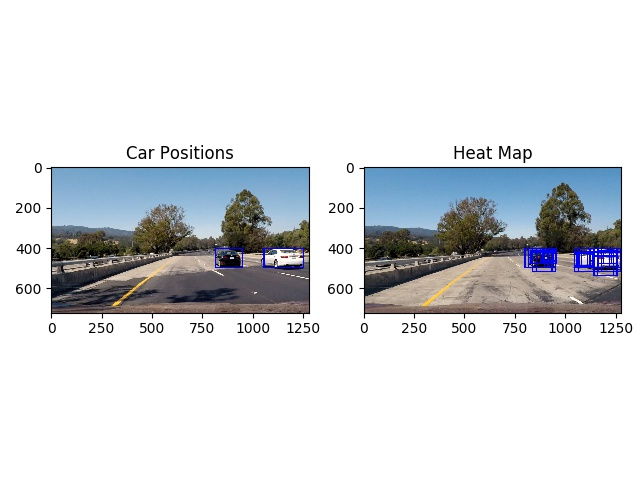
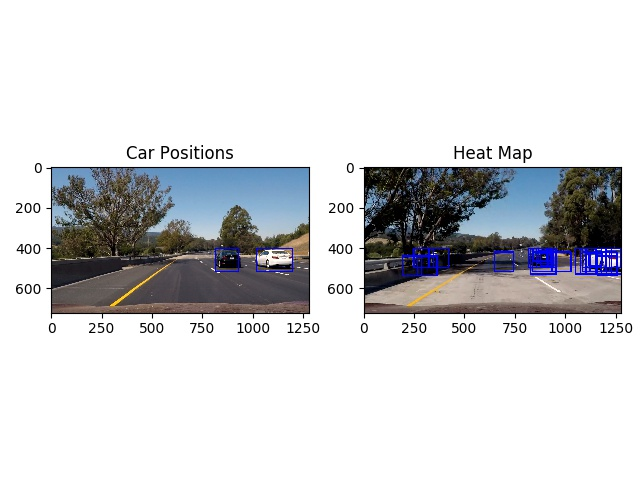
added 4th window for heat map search

Changed region(s): [[0.5625, 0.3438, 0.9688, 0.6562], [0.0625, 0.3438, 0.5, 0.6562], [0.375, 0.625, 0.4688, 0.6562]]

diff --git a/multiple_detect_false_positive.py b/multiple_detect_false_positive.py
@@ -28,13 +28,21 @@ images_names = glob.glob('test_images/*.jpg')
 s1 = 64
 s2 = 96
 s3 = 2*96
+s4 = 128
 amp = 1.5
 rate = 0.8
+'''
 xy_window_list = [(s1, s1), (s2, s2), (s3, s3)]
 x_start_stop_list = [[None, None],[None, None],[None, None]]
 y_start_stop_list = [[400, 400 + int(amp*s1)],[400, 400 + int(amp*s2)],[400, 400 + int(amp*s3)]]
 xy_overlap_list = [(rate, rate), (rate, rate), (rate, rate)]
+'''
 
+xy_window_list = [(s1, s1), (s2, s2), (s3, s3), (s4, s4)]
+x_start_stop_list = [[None, None],[None, None],[None, None], [None, None]]
+y_start_stop_list = [[400, 400 + int(amp*s1)],[400, 400 + int(amp*s2)],
+                        [400, 400 + int(amp*s3)], [400, 400 + int(amp*s4)]]
+xy_overlap_list = [(rate, rate), (rate, rate), (rate, rate), (rate, rate)]
 
 for image_name in images_names:
 
@@ -64,7 +72,7 @@ for image_name in images_names:
     heat = add_heat(heat, hot_windows)
 
     # Apply threshold to help remove false positives
-    heat = apply_threshold(heat,1)
+    heat = apply_threshold(heat,2)
 
     # Visualize the heatmap when displaying
     heatmap = np.clip(heat, 0, 255)

diff --git a/pipeline.py b/pipeline.py
@@ -62,12 +62,14 @@ if __name__ == "__main__":
     s1 = 64
     s2 = 96
     s3 = 2*96
+    s4 = 128
     amp = 1.5
     rate = 0.8
-    xy_window_list = [(s1, s1), (s2, s2), (s3, s3)]
-    x_start_stop_list = [[None, None],[None, None],[None, None]]
-    y_start_stop_list = [[400, 400 + int(amp*s1)],[400, 400 + int(amp*s2)],[400, 400 + int(amp*s3)]]
-    xy_overlap_list = [(rate, rate), (rate, rate), (rate, rate)]
+    xy_window_list = [(s1, s1), (s2, s2), (s3, s3), (s4, s4)]
+    x_start_stop_list = [[None, None],[None, None],[None, None], [None, None]]
+    y_start_stop_list = [[400, 400 + int(amp*s1)],[400, 400 + int(amp*s2)],
+                        [400, 400 + int(amp*s3)], [400, 400 + int(amp*s4)]]
+    xy_overlap_list = [(rate, rate), (rate, rate), (rate, rate), (rate, rate)]
 
 
     video = 'detected_test_video.mp4'
